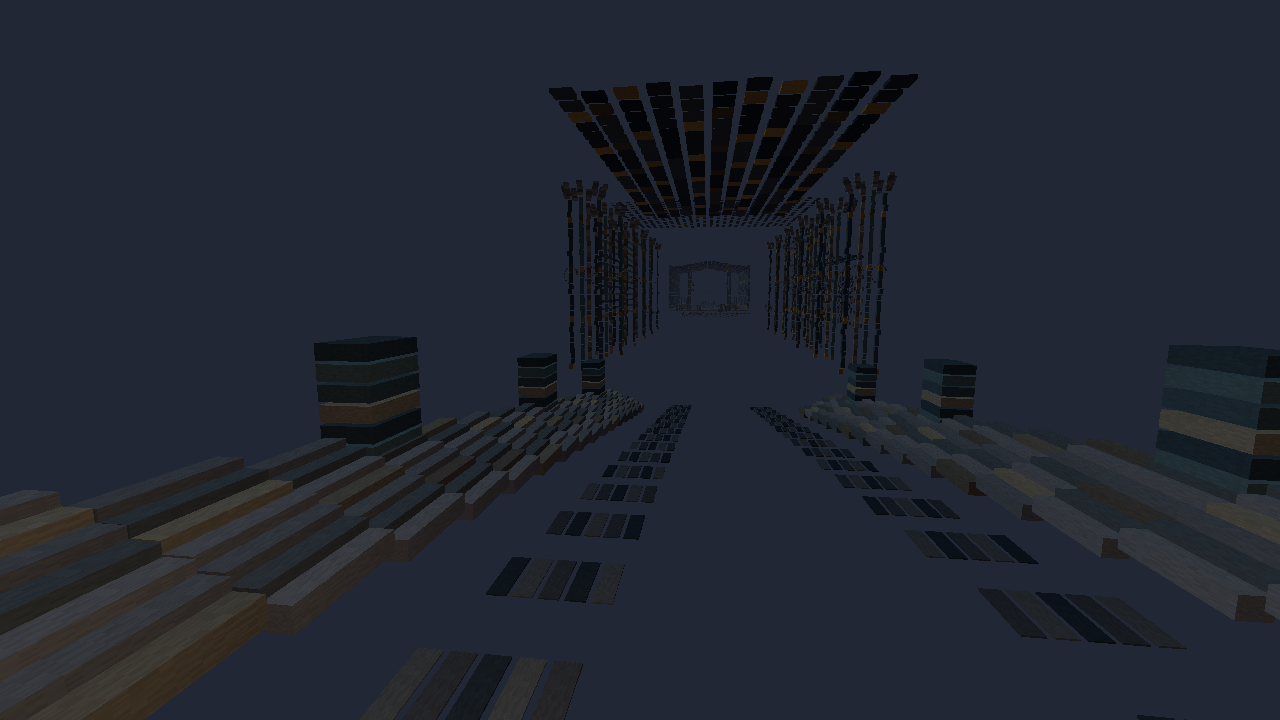
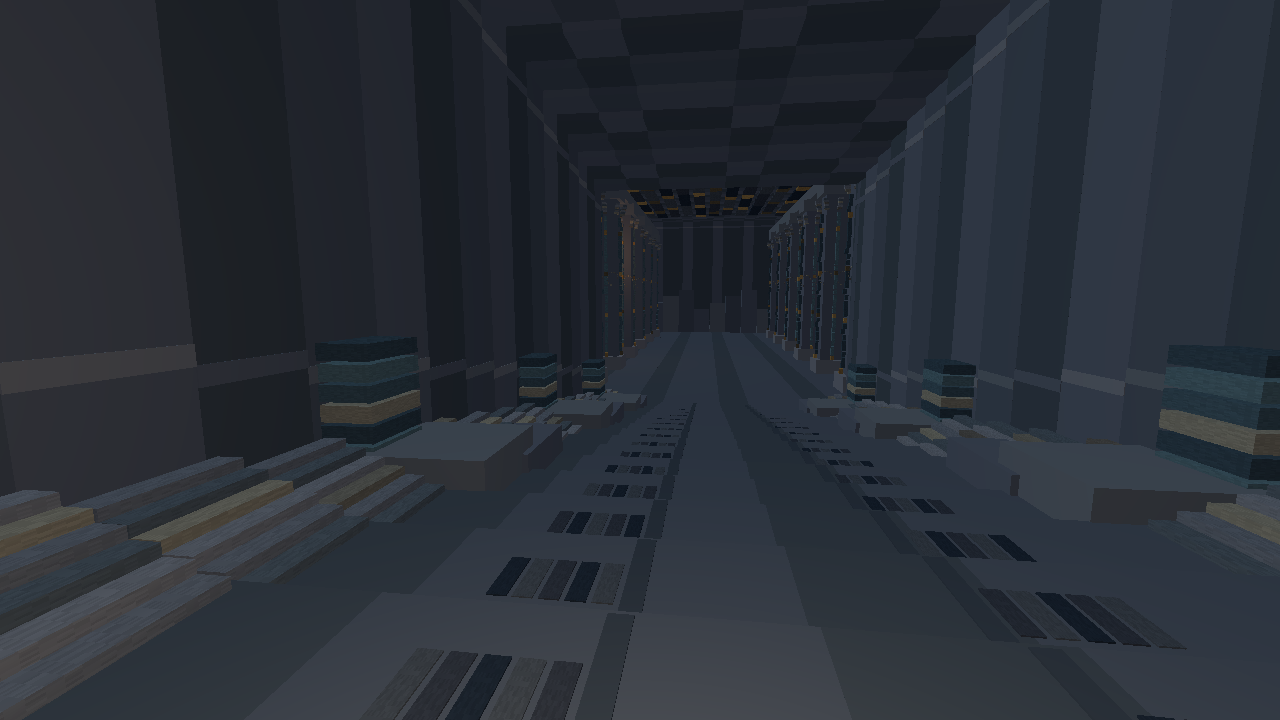
U-11: sculpt five palace sconces and verify D shell art overlay

diff --git a/tools/fixtures/underground-palace-dressing-review.ts b/tools/fixtures/underground-palace-dressing-review.ts
@@ -8,17 +8,18 @@ import {
   undergroundPalaceDressing,
 } from '../voxel-tavern/town-blockout/underground-palace-dressing';
 
-// Offline U-11 artwork review, with only the C dressing present.
-// It is NOT the D collision shell, not an authorized underground domain.
+// Offline U-11 artwork review overlays C dressing on a pinned D shell
+// geometry snapshot. The snapshot is NOT live D collision authority,
+// nor an authorized underground domain or production player arrival.
 const scene=new Scene();
 scene.background=new Color(0x212735);
-scene.fog=new FogExp2(0x212735,.0065);
-scene.add(new AmbientLight(0xada0a0,.5));
-const moon=new DirectionalLight(0xa7bbc2,1.7);
+scene.fog=new FogExp2(0x212735,.003);
+scene.add(new AmbientLight(0xb1b5ba,1.4));
+const moon=new DirectionalLight(0xa7bbc2,2.4);
 moon.position.set(-30,35,-14);
 scene.add(moon);
 const camera=new PerspectiveCamera(70,innerWidth/innerHeight,.06,220);
-const lamp=new PointLight(0xffd7a1,8,19,2);
+const lamp=new PointLight(0xffe0b2,10,28,2);
 camera.add(lamp);lamp.position.set(0,0,-.35);
 scene.add(camera);
 const renderer=new WebGLRenderer({antialias:false,powerPreference:'low-power'});
@@ -31,6 +32,15 @@ scene.add(parent);
 const reviewedDShell=createUndergroundPalaceShell();
 scene.add(reviewedDShell.group);
 const mounted=mountUndergroundPalaceDressing(parent,true);
+// Exactly three QA-only stand-ins are sampled from the host-approved sockets.
+// Their visibility proves nothing about U-13's actual production light budget.
+const qaSockets=[0,2,4] as const;
+for(const [index,socketIndex] of qaSockets.entries()){
+  const p=undergroundPalaceDressing.lightSockets[socketIndex]!;
+  const visualLight=new PointLight(index%2?0x7dc4f0:0xffb873,11,25,2);
+  visualLight.position.set(p.east,p.height,-p.north);
+  scene.add(visualLight);
+}
 // Vault geometry is intentionally shown only in the *art* QA camera so the
 // designer can inspect it before U-5 authorizes its actual in-game mount.
 const viewpoints={
@@ -82,7 +92,8 @@ Object.assign(window,{
         triangles:renderer.info.render.triangles,
         eye:camera.position.toArray(),
         officialWorldMounted:false,
-        reviewedDShellSnapshot:true};
+        reviewedDShellSnapshot:true,
+        simulatedFixtureLights:qaSockets.length};
     },
     dispose(){
       if(!active)return; active=false;

diff --git a/tools/voxel-tavern/town-blockout/underground-palace-dressing.ts b/tools/voxel-tavern/town-blockout/underground-palace-dressing.ts
@@ -311,12 +311,48 @@ function buildVaultReserve() {
       Math.cos(a)*1.10,floor+5.4+Math.sin(a)*1.10,165.55,.12,.12,.044);
   }
 }
+function buildStoneSconce(
+  zone: PalaceDressingZone, key: string, east: number, y: number, north: number,
+) {
+  // Physical fixtures only; visible illumination belongs to the U-13 / U-15
+  // host budget. No unregistered PointLight or story text is created here.
+  const prefix='u11/lantern-'+key;
+  for(let ring=0;ring<6;ring++) for(let side=0;side<8;side++){
+    const a=side*Math.PI/4;
+    const radius=(ring===0||ring===5)? .48:.36;
+    add(zone,ring===0||ring===5?'gold':'aged',
+      prefix+'/outer-frame-'+ring+'-'+side,
+      east+Math.cos(a)*radius,y-.52+ring*.23,north+Math.sin(a)*radius,
+      .13,.17,.13);
+  }
+  for(let tier=0;tier<9;tier++) for(let side=0;side<8;side++){
+    const a=side*Math.PI/4, radius=.26;
+    add(zone,tier%3===0?'pale':'blue',
+      prefix+'/moonstone-prism-'+tier+'-'+side,
+      east+Math.cos(a)*radius,y-.35+tier*.10,north+Math.sin(a)*radius,
+      .09,.12,.09);
+  }
+  for(let i=0;i<12;i++){
+    const a=i*Math.PI/6;
+    add(zone,'shadow',prefix+'/hood-tile-'+i,
+      east+Math.cos(a)*.44,y+.78,north+Math.sin(a)*.44,
+      .18,.20,.17);
+    add(zone,'wood',prefix+'/base-foot-'+i,
+      east+Math.cos(a)*.30,y-.66,north+Math.sin(a)*.30,
+      .15,.14,.17);
+  }
+}
 stairHall();
 buildColonnade();
 buildThrone();
 buildExitShrine();
 buildForecourt();
 buildVaultReserve();
+buildStoneSconce('colonnade','west-27',-5.7,floor+6.2,27);
+buildStoneSconce('colonnade','east-40',5.7,floor+6.2,40);
+buildStoneSconce('throne','west-82',-13,floor+8.2,82);
+buildStoneSconce('throne','east-82',13,floor+8.2,82);
+buildStoneSconce('forecourt','north-gateway',0,floor+9.6,125);
 
 export const undergroundPalaceDressing = Object.freeze({
   pieces: Object.freeze(masonry),

diff --git a/tests/town-blockout-underground-palace-dressing.test.ts b/tests/town-blockout-underground-palace-dressing.test.ts
@@ -25,6 +25,21 @@ test('U-11 seven-pass companion actually models all palace zones rather than sub
   assert.ok(!pieces.some(p=>/pickup|treasure|inventory|enemy|monster|placeholder|unfinished|inscription|fake/.test(p.name)));
 });
 
+test('U-11 R5 adds five full stone lantern sculptures without owning actual light sources',()=>{
+  const lanterns=pieces.filter(p=>p.name.startsWith('u11/lantern-'));
+  assert.equal(lanterns.length,720);
+  assert.equal(pieces.length,10581);
+  for(const key of ['west-27','east-40','west-82','east-82','north-gateway']){
+    const layers=lanterns.filter(p=>p.name.startsWith('u11/lantern-'+key+'/'));
+    assert.equal(layers.length,144,key+' must have a built frame and prism, not only a light marker');
+    assert.ok(layers.some(p=>p.name.includes('/moonstone-prism-')));
+    assert.ok(layers.some(p=>p.name.includes('/outer-frame-')));
+    assert.ok(layers.some(p=>p.name.includes('/hood-tile-')));
+  }
+  assert.equal(undergroundPalaceDressing.lightSockets.length,5,
+    'stone sculptures must not add extra authority-controlled point lights');
+});
+
 test('U-11 main path, empty throne and certified radius 22m preserve Window D shell footprint',()=>{
   const court=zone('forecourt').filter(p=>p.name.includes('apron-'));
   assert.ok(court.every(p=>Math.hypot(p.center[0],p.center[2]-126)<22.3));

diff --git a/docs/交流区/任务/U-11-窗C地宫装饰补模.md b/docs/交流区/任务/U-11-窗C地宫装饰补模.md
@@ -8,7 +8,7 @@
 - 窗 D 既有原壳：`origin/lane-d:tools/voxel-tavern/town-blockout/underground-palace-shell.ts`；本包**只增加装饰模型**，不取代该壳体，更不抢 `viewer.ts`、域权威、BOSS、库存、碰撞单写权。
 - 规格源：《工包-U-11-地宫空间骨架先行》《任务书-地宫与宝库细化》《主窗口通告-统一D盘根与七轮建模施工》《常驻规程增补-完工四齐不留空白》。
 - 本次源码：`tools/voxel-tavern/town-blockout/underground-palace-dressing.ts`；测试：`tests/town-blockout-underground-palace-dressing.test.ts`。
-- 累计独立补模 **9,861 块**：断阶 452、柱廊 2,616、侧廊 570、王座厅 1,716、出口与碑火 193、宝库门前 1,299、暂封宝库前厅 2,484、宝库陈设 531。开放宝库之前只渲染 **6,846 块**；宝库独立候选 **3,015 块**必须由 U-5/核心舱门授权挂载。
+- 当前累计独立补模 **10,581 块**：断阶 452、柱廊 2,904、侧廊 570、王座厅 2,004、出口与碑火 193、宝库门前 1,443、暂封宝库前厅 2,484、宝库陈设 531。R5 新增五组石龛冷晶灯具 720 块（各 144）；未获宝库授权时只渲染 **7,566 块**；封库候选 **3,015 块**必须由 U-5/核心舱门授权挂载。灯具不自行创建生产 PointLight。
 - 约束：窗口 D 的已有壳体坐标为局部东/高/北；地宫层 −190m 世界坐标与入场域必须由正式宿主变换，窗 C 不另造传送门或出生点。
 
 ## 七轮状态（逐轮事实，不是写了七轮就算七轮完成）
@@ -19,9 +19,9 @@
 | R2 补齐主体 | **本分件已完成** | 柱头、凹顶、崩塌侧廊、王座石台四侧、宫门、篝火底座、无字碑框、宝库石匣及中台底座 |
 | R3 修补模型/碰撞/路线 | **部分完成** | 坐标数值/命名唯一/广场半径/楼层边界有代码测试；未取得 D 壳体合体第一人称连续实走，因此不能宣称碰撞完全合格 |
 | R4 参照图库精修 | **在建** | 已建暗石青、暗金、石灰、木纹八材质家族，16px 像素纹理；独立 Chrome 六机位截图已真实取得（非正式世界），尚缺对照原图库逐角度主观审图和 D 壳合体返工 |
-| R5 细节修补 | **在建** | 断阶车辙、羊角纹、浮雕、侧廊烟熏、柱帽、空座台浅印、唯一掌印、六残柱、宫门纹带、宝库陈设底座；未做整宫手机性能和主灯复核 |
+| R5 细节修补 | **在建** | 断阶车辙、羊角纹、浮雕、侧廊烟熏、柱帽、空座台浅印、唯一掌印、六残柱、宫门纹带、宝库陈设底座；本轮补建 5 组有石框/晶棱/瓦帽/底座的实体宫灯（720 块）并六机位合 D 壳快照审图，仍缺整宫手机性能和正式灯预算验收 |
 | R6 玩法接入 | **未开始** | 模型没有拾取、攻击、开门、碰撞权威；等待 D 壳体、U-5、U-13 和 U-15 统一宿主与多人实走；不能用伪 E 验收 |
-| R7 审核推送合干 | **部分完成** | 本分件专项 3/3、TypeScript 检查和构建通过，独立 Chromium 六视角 6–7 draws / 115–118k 三角形/0 页面错误；正式宿主第一人称/手机、四齐和集成主分支验收未过则不合入、不上线 |
+| R7 审核推送合干 | **部分完成** | 新增宫灯计数专项使本分件 4/4 PASS，TypeScript 通过；独立 Chromium 六机位叠加固定 D 壳快照 8–10 draws / 201–205k 三角形/0 页面错误；正式宿主第一人称/手机、四齐及主干审合未过则不强行发布 |
 
 ## 禁区与总线安全
 
@@ -31,4 +31,4 @@
 - 核心舱门仅以缺口环浮雕留视觉界面，默认不开；不输出解密文案、不开闸。
 - 四齐自查：**形否 / 饰否 / 互否 / 文否**（全域尚未挂载、未真实画面评审、未玩家交互、正式故事文案未审），因此总状态**在建**。
 
-**本轮已读 Muse 新文件：**《主窗口通告-统一D盘根与七轮建模施工-2026-11-21》《常驻规程增补-完工四齐不留空白-2026-11-21》《工包-U-11-地宫空间骨架先行》《任务书-地宫与宝库细化-2026-11-19》。
+**本轮已读 Muse 新文件：**《主窗口通告-统一D盘根与七轮建模施工-2026-11-21》《常驻规程增补-完工四齐不留空白-2026-11-21》《工包-U-11-地宫空间骨架先行》《任务书-地宫与宝库细化-2026-11-19》。R5 续验新增 [石龛宫灯回执](../GPT/窗C-U11-R5石龛宫灯续建-2026-11-21.md)，尚须继续对版集成新文件。

diff --git a/docs/交流区/队列-窗C.md b/docs/交流区/队列-窗C.md
@@ -10,6 +10,8 @@
 
 本轮已读 Muse 新文件：本轮新增 `批16` 为陨石坑新图修订及裁定存档，无 U-19 规格冲突；本轮三项 U17/U18/U19 全按四轮法落地代码，已核主干 264/264、根构建，依旧不冒充默认实走。[U-19 完整交付回执](GPT/窗C-U19四轮装配与地下264回归-2026-11-21.md)。此前已读《任务书-U17》《任务书-U18》《任务书-U19》《设计-交互玩法八案》《设计-精选三案实现规格》《工程指导-多智能体协作常设约束》《常驻规程增补-完工四齐不留空白》《风格打造规范-粘土工厂味》《U12结论落地-关》；Thomas 四轮施工新令已执行并登记[四轮交付回执](GPT/窗C-四轮施工法与U17U18交付回执-2026-11-21.md)，默认入口未实走项目仍标在建。此前已读 Muse《设计-新图修订章一-测绘线与四件》《设计-缆车抢修实现规格》《登记-分支窗A待批推包》（2026-11-21）；按窗 C 责任新增石沉守绞盘源码，额外记录协作绞盘新正典与旧 U-1 7.5s/reset 冲突交窗 B/A；[G-03 与 U-8 证据](GPT/窗C-G03石沉与U8矿点分段回执-2026-11-21.md)。此前已读 Muse 2026-11-21 新批《审计-建成未入图清单》《lane-c对账清单》《U12结论落地-关》《U13自验回执》《G03点位表》《S11船徽规范》《任务书-U17》《任务书-U18》《任务书-U19》《夜间回补清单》及总控六件套/四齐；[地下域首段入图缺口回执](GPT/窗C-地下域首段装配与入图缺口-2026-11-21.md)逐项声明仍未入玩家主入口。此前已读《待审场景清单-分区一》ZA-06 四区展陈。上一轮已读《代落喊单-ZD03-星港坪装配-分区一》及其 `8907b57` 完成报号和接棒释放。此前已读《待审场景清单-分区一》ZA-11 增注、《催领-窗B-续单链》更正注记。上轮复查《催并-ZA31候选组-窗A自并》`cb10b68b`，以及 `7e8c8691`、`0c272d1f`、`c6c14686` 更新的《风格参照图册-粘土工厂味》《风格参照图册-图片清单》和 31 张版催办。已读第九节八条学记。新增 22–31 号十张均已保存至本机 `reference-assets/unwritten-2027/clay-factory`，连同既有 21 张，01–31 各一份。新增原图逐张完整解码，格式、尺寸及 SHA‑256 与清单和网络原件核对通过。地下对照 05–07 的暗岩、暖光池与晶辉，营地对照 21。新增 22/23 的柜台、货架与双点火光用于锻造间，25/31 的颜色罩与颗粒口径用于潭水，27 的近处薄蒸汽用于热源。
 
+**2026-11-21 晚间增量续报（仍不关闭任务）：** U-10 实键 W 连续扫掠、开放屋进门/封闭屋挡门的真实 Chrome 独立预览验收已通过，见《窗C-U10-键盘实走复验-2026-11-21》；U-11 R5 新补五组实体石龛宫灯 720 块，独立模型累计 10,581、未授权封库默认 7,566，单测 4/4、六机位 D 壳快照浏览器审图通过，根 build 通过，见《窗C-U11-R5石龛宫灯续建-2026-11-21》。两件都尚未正式接入默认地下宿主，多人实走/美术双图/完整四齐缺口不变，**保持在建**。全部产物在指定 D 盘工作树并按分支分件推送。
+
 | 编号 | 任务与上位令 | 状态 |
 | --- | --- | --- |
 | [U-1](任务/U-1.md) | B-01 正式井位与入梦 | 在建。三段权威、ZA-31 绞盘句柄 `5e2b7d0e` 和双向吊笼交接 `df7b3117`、演出 `66ec347d`、正式黑帧控制器 `985e7c05` 与实际井口受理桥 `07e512e0` 已入干（17/17、15/15、12/12，受理桥同权威组 22/22）；正式长按 E、井线与矿域受理待接 |

diff --git a/docs/交流区/提单/窗C致窗D-U11地宫补件对接-2026-11-21.md b/docs/交流区/提单/窗C致窗D-U11地宫补件对接-2026-11-21.md
@@ -6,8 +6,8 @@
 - 窗 D 拥有地宫首层通路与碰撞准本 `tools/voxel-tavern/town-blockout/underground-palace-shell.ts`（见 `origin/lane-d`）。窗 C **仅增加** `tools/voxel-tavern/town-blockout/underground-palace-dressing.ts` 的密集实体装饰；后者不覆盖 D 源文件。
 - 使用：`import { mountUndergroundPalaceDressing } from './underground-palace-dressing.js'`；当 D 的 shell group 创建后，在**统一 ENY 局部坐标系**调用 `mountUndergroundPalaceDressing(shell.group)`。只需一个 Group 父节点，返回 `{group,meshes,visualPieceCount,isVaultPresent,dispose}`。世界坐标与 −190m 由权威宿主变换统一施加。
 - 默认第二参数 `false`，**3,015 个宝库构件不会被挂载**；只有 U-5 守库战、真实门控授权和剧情/路线放行后才可选 `true`，不能前端自行开门。
-- 补模量 **9,861** 构件、八材质家族实例批次，正常首层 6,846；羊纹只在远古石构，王座厅不造怪、不拾取，唯一手掌印，金羊本体和可拾物留给现役共享权威。
-- 测试：窗 C 3/3、TypeScript 检查与 Vite 生产构建已通过，另有 `node tools/verify-underground-palace-dressing.mjs` 的六机位真实 Chromium 截图、6–7 draws/115–118k tris/零浏览器错误（**独立夹具，不是实走**）。D 壳体合体路径、相机四视图、撞柱/拐弯/退出广场、多人、手机 FPS、图集来源需另外真实验证。任何冲突请按 D 壳为主、窗 C 补丁可调处理。
+- R5 更新补模量 **10,581** 构件、八材质实例批次，新增五组实体石龛/晶棱宫灯 720 件（仅外观，不新增光源权威），正常未授权封库首层 **7,566**；羊纹只在远古石构，王座厅不造怪、不拾取，唯一手掌印，金羊本体与可拾物归现役共享权威。
+- 更新复测：窗 C 4/4、TypeScript 检查已通过；`node tools/verify-underground-palace-dressing.mjs` 六机位真实 Chrome 截图叠加固定窗 D 壳体快照，8–10 draws/201–205k tris/零浏览器错误（**独立夹具，不是正式玩家实走**）。D 实时碰撞壳/路径、撞柱/拐弯/退出广场、多人、手机 FPS、图库比对须另外真实验证；冲突按 D 壳为主、C 补件可调。
 - 《七轮施工令》仅 C 装饰分件 R1/R2 有建模证据，**不能算 U-11 整件七轮验收完成**。四齐形/饰/互/文均未过，禁报挂载。
 
 **本轮已读 Muse 新文件：**《主窗口通告-统一D盘根与七轮建模施工-2026-11-21》《常驻规程增补-完工四齐不留空白-2026-11-21》《工包-U-11-地宫空间骨架先行》《任务书-地宫与宝库细化-2026-11-19》。

diff --git a/docs/交流区/GPT/窗C-U11-R5石龛宫灯续建-2026-11-21.md b/docs/交流区/GPT/窗C-U11-R5石龛宫灯续建-2026-11-21.md
@@ -1,0 +1,12 @@
+# 窗 C · U-11 R5 宫灯实体补模与合壳审图（2026-11-21）
+
+**状态：在建（R5 候选通过独立预览审核；R6/R7 未过默认玩家/多人/总装门）。**
+
+- 工作树与分支：`D:\computer learning\game_exe\kuanian\.worktrees\window-c`，`lane-c`。不改窗 D 的 `underground-palace-shell.ts`、碰撞受理、战斗/库存/核心舱门权威。
+- 在八材质实例批次内增加 5 组**实体石龛灯具**：柱廊 2、王座 2、前庭 1。每座独立含八角层石框、冷色晶棱、遮雨灯帽、支脚，共 144 件，增量 **720 件**；灯具本身不创建真实 PointLight，U-13 照明预算仍由正式宿主控制。
+- 补模计数从 9,861 改为 **10,581**：断阶 452、柱廊 2,904、侧廊 570、王座 2,004、出口 193、前庭 1,443、封库前厅 2,484、封库存 531。封库部分仍是 3,015，默认仅应渲染 7,566 件，游戏里未授权宝库不可开。
+- 修复原 `tools/verify-underground-palace-dressing.mjs` 把旧模型量写死为 9,861 的断言，并新增 **5 组×144 件**的精确测试；`node --import tsx --test tests/town-blockout-underground-palace-dressing.test.ts` **4/4 PASS**；`node tools/run.mjs check` 通过。
+- `node tools/verify-underground-palace-dressing.mjs` 六机位 Chrome 全绿。审图叠加窗 D 已固定的壳体快照：**8–10 draws、201,368–204,968 triangles、页面错误 0**；输出 `GPT/窗C-U11地宫建模审图-2026-11-21/` 六张新截图及 review-stats.json。局部快照/独立预览不等于真实 D 壳体动态碰撞、官方 -190m 域或默认玩家抵达。
+- R1/R2 本地装饰主体已成，R3 真碰撞/通行未合格，R4 仍缺原素材逐景对照/手机验证，R5 本增量代码与画面通过但非整宫完工，R6 正式 E/多人/守库授权等待 D 和总控，R7 四齐形/饰/互/文仍否。仅申请独立补模对接审核，不要求偷渡到发布分支。
+
+**本轮已读 Muse 新文件：** 复核 U-11 工包与七轮施工法、四齐规程及窗 D 对接单；集成新增的其余 Muse 文档尚未逐份复读，不以此回执冒充全读。
